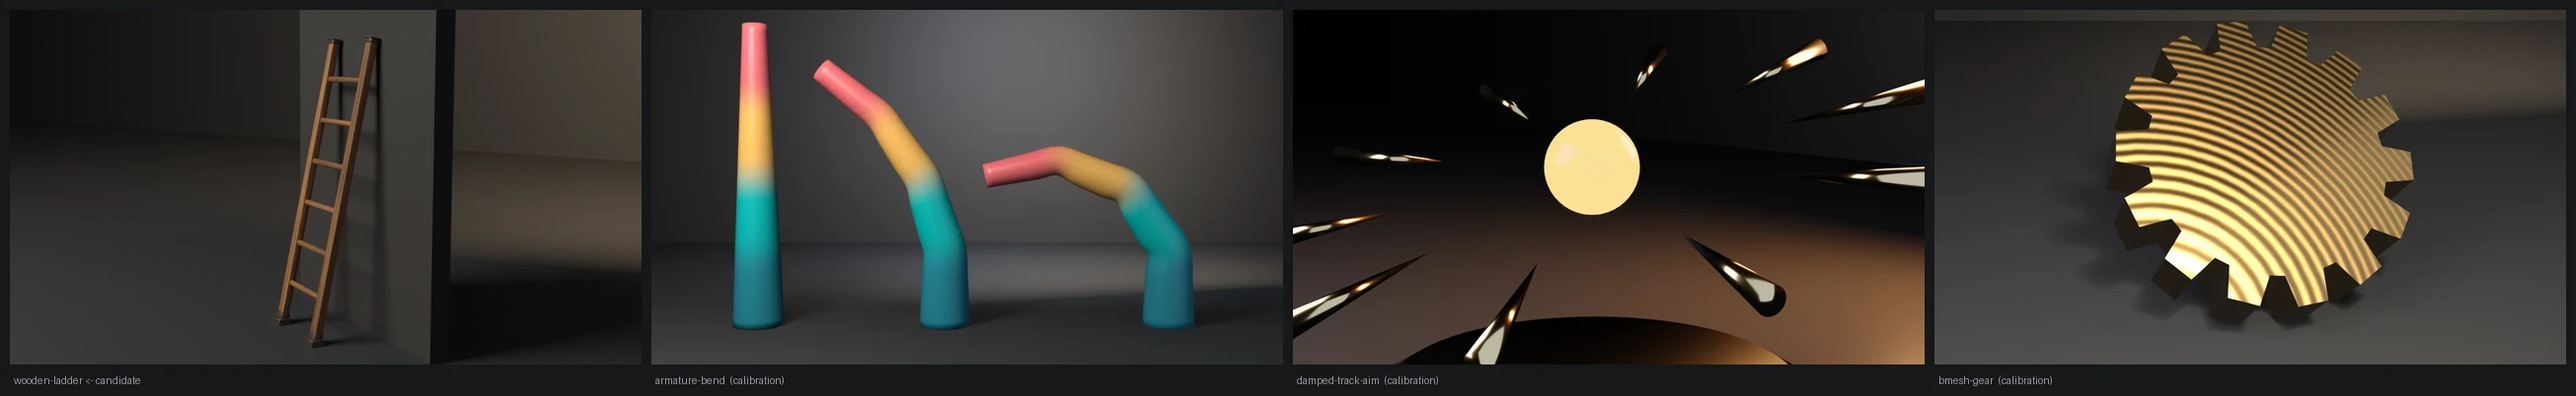
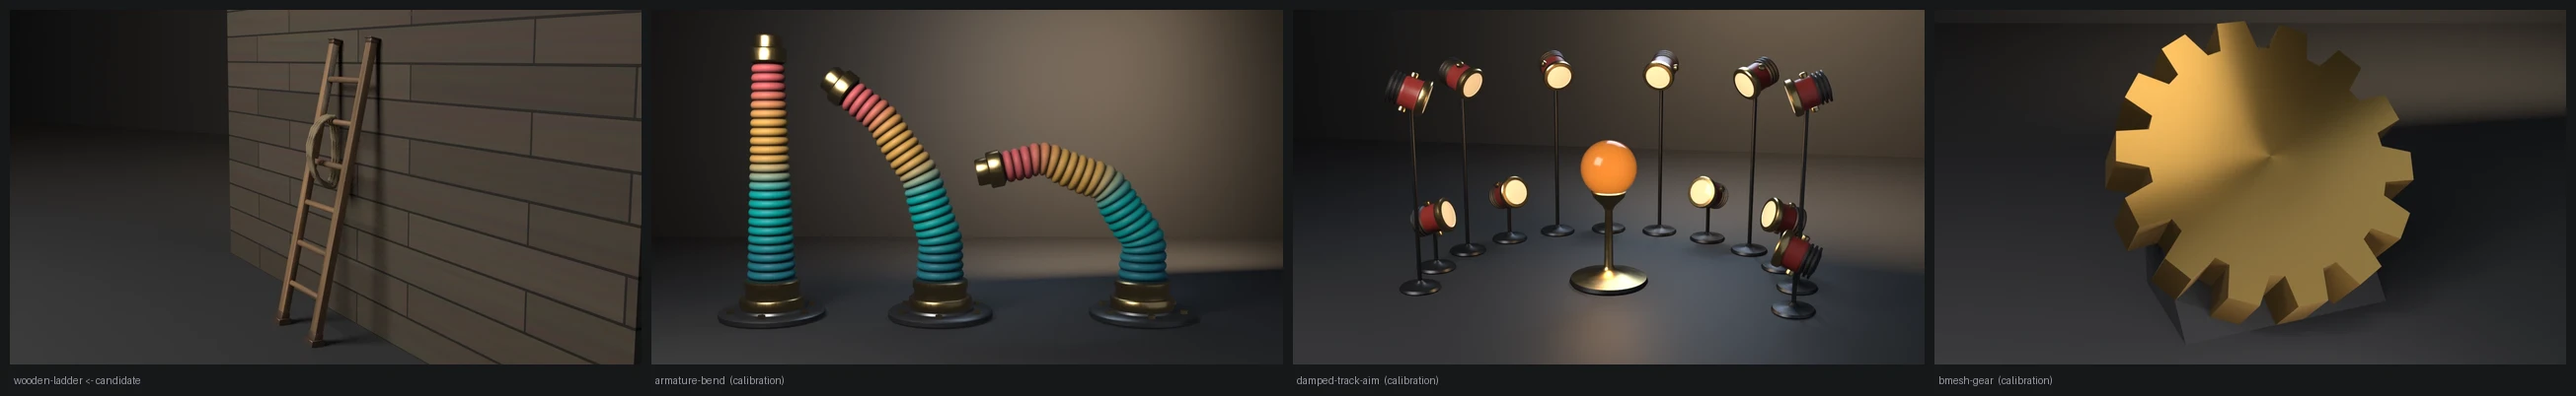
fix(showcase): restage wooden-ladder on a board wall with a hung rope coil
The ladder now leans on a render-only barn wall of staggered weathered
boards instead of a flat grey block. A hand-coiled hemp rope hangs over the
second-highest rung. The rung is found from the mesh the way rung_pitch
finds rungs, and the coil is a teardrop laid from a three-lobed section,
hung forward of the rung and away from the wall. The wood ramp is
desaturated toward weathered timber. Geometry, budgets and falsifiers are
unchanged; the wall and the coil are staging only.

Evidence (live runs, local):
- E:/Blender-Developer-Tools/.scratch/blender-5.2.1-windows-x64/blender.exe
  (Blender 5.2.1 LTS) and .../blender-4.5.11-windows-x64/blender.exe
  (Blender 4.5.11 LTS): default exit 0 on both. Falsifiers on both:
  --skip-decimate 9, --stray-vert 15, --twin-sole 15, --lift-z 16,
  --fat-rungs 17, --short-stile 18, --drift-rungs 19, all as documented.
- --output renders on both versions (Cycles for the hero). Framing
  (5.2.1): fill y=0.883, margins l=0.416 r=0.416 b=0.044 t=0.072.
- Contact sheet: candidate luma 0.211 / stage 0.202 / warmth +0.091 /
  sat 0.171, against armature-bend 0.243/0.192/-0.144/0.237, damped-track-aim
  0.237/0.218/+0.105/0.178, and bmesh-gear 0.236/0.177/+0.303/0.250. Inside
  the band.
- Asset sheet (docs/gallery/asset-sheets/wooden-ladder.webp): verdict is
  borderline. The bare ladder, thin by nature, is the plainest object in
  that lineup at sheet scale. Its model is unchanged here. Richer rung
[…]

diff --git a/showcase/wooden-ladder/wooden_ladder.py b/showcase/wooden-ladder/wooden_ladder.py
@@ -990,9 +990,9 @@ def wood_material(name):
     nt.links.new(shift.outputs["Vector"], noise.inputs["Vector"])
     ramp = nt.nodes.new("ShaderNodeValToRGB")
     ramp.color_ramp.elements[0].position = 0.30
-    ramp.color_ramp.elements[0].color = (0.12, 0.052, 0.018, 1.0)
+    ramp.color_ramp.elements[0].color = (0.10, 0.056, 0.028, 1.0)
     ramp.color_ramp.elements[1].position = 0.72
-    ramp.color_ramp.elements[1].color = (0.38, 0.18, 0.065, 1.0)
+    ramp.color_ramp.elements[1].color = (0.33, 0.19, 0.095, 1.0)
     nt.links.new(noise.outputs["Fac"], ramp.inputs["Fac"])
     gain = nt.nodes.new("ShaderNodeMath")
     gain.operation = "MULTIPLY_ADD"
@@ -1423,6 +1423,136 @@ def wire_normal(mat, tex):
     nt.links.new(nrm.outputs["Normal"], bsdf.inputs["Normal"])
 
 
+def barn_wall_material():
+    """Render-only lean surface: staggered weathered boards, dark seams."""
+    mat = bpy.data.materials.new("BarnBoards")
+    mat.use_nodes = True
+    nt = mat.node_tree
+    bsdf = nt.nodes["Principled BSDF"]
+    coord = nt.nodes.new("ShaderNodeTexCoord")
+    # Brick rows run along the texture's Y; turn the wall's Z onto it.
+    mapping = nt.nodes.new("ShaderNodeMapping")
+    mapping.inputs["Rotation"].default_value = (math.radians(90.0), 0.0, 0.0)
+    nt.links.new(coord.outputs["Object"], mapping.inputs["Vector"])
+    boards = nt.nodes.new("ShaderNodeTexBrick")
+    boards.offset = 0.37
+    boards.inputs["Scale"].default_value = 1.0
+    boards.inputs["Brick Width"].default_value = 1.35
+    boards.inputs["Row Height"].default_value = 0.17
+    boards.inputs["Mortar Size"].default_value = 0.006
+    boards.inputs["Mortar Smooth"].default_value = 0.3
+    boards.inputs["Bias"].default_value = 0.0
+    boards.inputs["Color1"].default_value = (0.070, 0.052, 0.038, 1.0)
+    boards.inputs["Color2"].default_value = (0.105, 0.080, 0.058, 1.0)
+    boards.inputs["Mortar"].default_value = (0.008, 0.007, 0.006, 1.0)
+    nt.links.new(mapping.outputs["Vector"], boards.inputs["Vector"])
+    grain = nt.nodes.new("ShaderNodeTexNoise")
+    grain.inputs["Scale"].default_value = 6.0
+    grain.inputs["Detail"].default_value = 8.0
+    stretch = nt.nodes.new("ShaderNodeMapping")
+    stretch.inputs["Scale"].default_value = (0.12, 1.0, 6.0)
+    nt.links.new(coord.outputs["Object"], stretch.inputs["Vector"])
+    nt.links.new(stretch.outputs["Vector"], grain.inputs["Vector"])
+    mix = nt.nodes.new("ShaderNodeMix")
+    mix.data_type = "RGBA"
+    mix.blend_type = "MULTIPLY"
+    _sock(mix.inputs, "Factor_Float").default_value = 0.55
+    nt.links.new(boards.outputs["Color"], _sock(mix.inputs, "A_Color"))
+    nt.links.new(grain.outputs["Color"], _sock(mix.inputs, "B_Color"))
+    nt.links.new(_sock(mix.outputs, "Result_Color"), bsdf.inputs["Base Color"])
+    bsdf.inputs["Roughness"].default_value = 0.88
+    bump = nt.nodes.new("ShaderNodeBump")
+    bump.inputs["Strength"].default_value = 0.6
+    bump.inputs["Distance"].default_value = 0.004
+    nt.links.new(boards.outputs["Fac"], bump.inputs["Height"])
+    nt.links.new(bump.outputs["Normal"], bsdf.inputs["Normal"])
+    return mat
+
+
+def rope_coil(low, turns=3, loop_r=0.135, rope_r=0.012):
+    """A hand-coiled rope hung over the second-highest rung (ladder frame).
+
+    Rungs are read off the mesh the way ``rung_pitch`` reads them: the
+    wooden shells wide across X and short in Z. The coil's loops hang in
+    the plane across the rung, their tops draped over it, and are laid
+    from a three-lobed section turned one step per ring, as the showcase
+    rope rule asks.
+    """
+    me = low.data
+    rungs = []
+    for g in _vertex_shells(me):
+        pts = [me.vertices[i].co for i in g]
+        if (max(p.x for p in pts) - min(p.x for p in pts) > 0.25
+                and max(p.z for p in pts) - min(p.z for p in pts) < 0.08):
+            rungs.append(pts)
+    rungs.sort(key=lambda pts: sum(p.z for p in pts))
+    rung = rungs[-2]
+    rz = sum(p.z for p in rung) / len(rung)
+    ry = sum(p.y for p in rung) / len(rung)
+    rr = (max(p.z for p in rung) - min(p.z for p in rung)) / 2.0
+    # The wall stands on the side the rails rake toward; the coil hangs
+    # forward of the rung, away from it, so it never meets the boards.
+    top_band = [v.co.y for v in me.vertices if v.co.z > max(p.z for p in rung) + 0.3]
+    foot_band = [v.co.y for v in me.vertices if v.co.z < 0.08]
+    wall_side = 1.0 if sum(top_band) / len(top_band) > sum(foot_band) / len(foot_band) else -1.0
+    ztop = rz + rr + rope_r
+    x0 = 0.035
+
+    steps, sides = 36 * turns, 9
+    pitch = 2.3 * rope_r
+
+    def centre(i):
+        # a hanging loop is a teardrop: pinched over the rung, full below;
+        # it reaches far forward of the rung and barely behind it
+        t = i / 36.0 * 2.0 * math.pi
+        fan = 1.0 - 0.06 * (i / steps)                 # turns read as separate
+        s = math.sin(t)
+        reach = (loop_r * 0.9 if s > 0 else loop_r * 0.28) * fan
+        y = ry - wall_side * reach * s
+        z = ztop - loop_r * 1.35 * fan * (1.0 - math.cos(t))
+        return Vector((x0 + pitch * i / 36.0, y, z))
+
+    bm = bmesh.new()
+    try:
+        rings = []
+        for i in range(steps + 1):
+            c = centre(i)
+            tang = (centre(i + 1) - centre(i - 1)).normalized()
+            n = tang.cross(Vector((1.0, 0.0, 0.0))).normalized()
+            b = tang.cross(n)
+            ring = []
+            for k in range(sides):
+                a = 2 * math.pi * k / sides + i * (2 * math.pi / sides)
+                lobe = 1.0 + 0.16 * math.cos(3 * (2 * math.pi * k / sides))
+                ring.append(bm.verts.new(c + rope_r * lobe * (n * math.cos(a) + b * math.sin(a))))
+            rings.append(ring)
+        for r0, r1 in zip(rings, rings[1:]):
+            for k in range(sides):
+                f = bm.faces.new((r0[k], r0[(k + 1) % sides], r1[(k + 1) % sides], r1[k]))
+                f.smooth = True
+        bm.faces.new(list(reversed(rings[0])))
+        bm.faces.new(rings[-1])
+        cme = bpy.data.meshes.new("RopeCoil")
+        bm.to_mesh(cme)
+    finally:
+        bm.free()
+    rmat = bpy.data.materials.new("Hemp")
+    rmat.use_nodes = True
+    rnt = rmat.node_tree
+    rb = rnt.nodes["Principled BSDF"]
+    rnoise = rnt.nodes.new("ShaderNodeTexNoise")
+    rnoise.inputs["Scale"].default_value = 90.0
+    rnoise.inputs["Detail"].default_value = 6.0
+    rramp = rnt.nodes.new("ShaderNodeValToRGB")
+    rramp.color_ramp.elements[0].color = (0.16, 0.115, 0.065, 1.0)
+    rramp.color_ramp.elements[1].color = (0.40, 0.31, 0.18, 1.0)
+    rnt.links.new(rnoise.outputs["Fac"], rramp.inputs["Fac"])
+    rnt.links.new(rramp.outputs["Color"], rb.inputs["Base Color"])
+    rb.inputs["Roughness"].default_value = 0.9
+    cme.materials.append(rmat)
+    return bpy.data.objects.new("RopeCoil", cme)
+
+
 def render_still(low, wood, tex, path, engine):
     scene = bpy.context.scene
     wire_normal(wood, tex)
@@ -1447,21 +1577,23 @@ def render_still(low, wood, tex, path, engine):
     try:
         bmesh.ops.create_cube(bm, size=1.0)
         for v in bm.verts:
-            v.co.x *= 1.4
+            v.co.x *= 3.8
             v.co.y = top_y + lean * (v.co.y + 0.5) * 0.10
-            v.co.z = (v.co.z + 0.5) * 1.75
+            v.co.z = (v.co.z + 0.5) * 1.95
         bm.to_mesh(panel_me)
     finally:
         bm.free()
-    pmat = bpy.data.materials.new("LeanWall")
-    pmat.use_nodes = True
-    pb = pmat.node_tree.nodes["Principled BSDF"]
-    pb.inputs["Base Color"].default_value = (0.034, 0.032, 0.031, 1.0)
-    pb.inputs["Roughness"].default_value = 0.85
-    panel_me.materials.append(pmat)
+    panel_me.materials.append(barn_wall_material())
     panel = bpy.data.objects.new("LeanWall", panel_me)
     panel.rotation_euler.z = low.rotation_euler.z
     scene.collection.objects.link(panel)
+
+    # A laid-rope coil hung over the second-highest rung: the ladder in use,
+    # not in a catalogue. Render-only, parented to the ladder so it turns
+    # with it; not part of the asset, its budgets or its export.
+    coil = rope_coil(low)
+    coil.parent = low
+    scene.collection.objects.link(coil)
 
     floor_me = bpy.data.meshes.new("Floor")
     bm = bmesh.new()
@@ -1540,7 +1672,7 @@ def render_still(low, wood, tex, path, engine):
     scene.view_settings.view_transform = "Standard"
 
     fcode = gallery_framing.check_framing(
-        scene, cam, hero=[low], elements=[low], stage=[floor, wall, panel],
+        scene, cam, hero=[low], elements=[low, coil], stage=[floor, wall, panel],
     )
     if fcode:
         return fcode

diff --git a/README.md b/README.md
@@ -133,7 +133,7 @@ Budget-conformance props. Not examples. Conventions: [`showcase/README.md`](show
   <a href="showcase/wall-torch/"><img src="showcase/wall-torch/preview.webp" width="24%" alt="Wall torch: a dressed stone plaque with an iron plate and arm holding a cup, a leaning wooden torch with a pitch-wrapped head and a bright flame, on a dark studio floor" /></a>
   <a href="showcase/tavern-stool/"><img src="showcase/tavern-stool/preview.webp" width="24%" alt="Tavern stool: a round wooden seat on turned splayed legs with stretchers at two heights and iron ferrules on flat treads, on a dark studio floor" /></a>
   <a href="showcase/iron-cauldron/"><img src="showcase/iron-cauldron/preview.webp" width="24%" alt="Iron cauldron: a round-bellied cast-iron pot hanging by its bail from a timber tripod on a dark studio floor" /></a>
-  <a href="showcase/wooden-ladder/"><img src="showcase/wooden-ladder/preview.webp" width="24%" alt="Wooden ladder: a raked timber ladder with six evenly spaced rungs and iron shoes, leaning against a dark wall section" /></a>
+  <a href="showcase/wooden-ladder/"><img src="showcase/wooden-ladder/preview.webp" width="24%" alt="Wooden ladder: a raked timber ladder with six evenly spaced turned rungs and iron shoes, leaning on a weathered barn-board wall with a coil of hemp rope hung over a rung" /></a>
   <a href="showcase/hay-bale/"><img src="showcase/hay-bale/preview.webp" width="24%" alt="Hay bale: a bound straw bale with two sisal twine belts on a dark studio floor" /></a>
   <a href="showcase/crate-stack/"><img src="showcase/crate-stack/preview.webp" width="24%" alt="Crate stack: three slatted shipping crates stacked and yawed, each with iron corner straps and runners, on a dark studio floor" /></a>
   <a href="showcase/stone-archway/"><img src="showcase/stone-archway/preview.webp" width="24%" alt="Stone archway: a semicircular masonry arch with coursed piers, projecting imposts, nine voussoirs and a proud keystone, on a dark studio floor" /></a>

diff --git a/showcase/wooden-ladder/README.md b/showcase/wooden-ladder/README.md
@@ -7,6 +7,16 @@ level shoe plates under sleeves that follow the rake. Then the shipped
 pipeline: unique-cell UVs, Cycles high-to-low normal bake, LOD chain,
 convex collider, Unity glTF export.
 
+**Hero.** The ladder leans on a render-only barn wall of staggered
+weathered boards (a Brick texture turned onto the wall plane, with a
+stretched noise for grain), and a hand-coiled rope hangs over the
+second-highest rung. The rung is found the way `rung_pitch` finds rungs:
+the wooden shells wide in X and short in Z. The coil is a teardrop laid
+from a three-lobed section, per the showcase rope rule. It hangs forward of
+the rung, away from the wall. The wall and the coil are staging, not part
+of the asset, its budgets or its export. The asset sheet judges the bare
+`LadderLow`.
+
 It asserts **budget conformance** of the generated result. It does not
 witness an API contract. "It rendered without error" is not a check.
 
